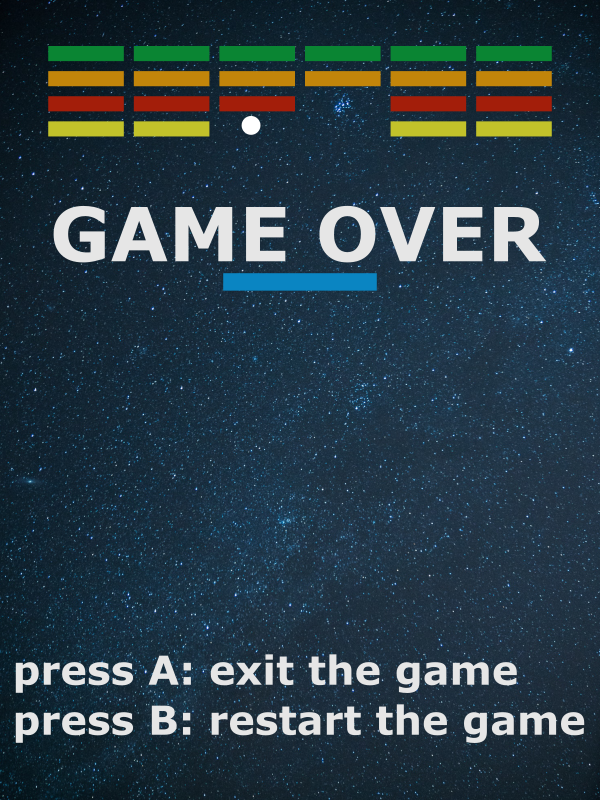
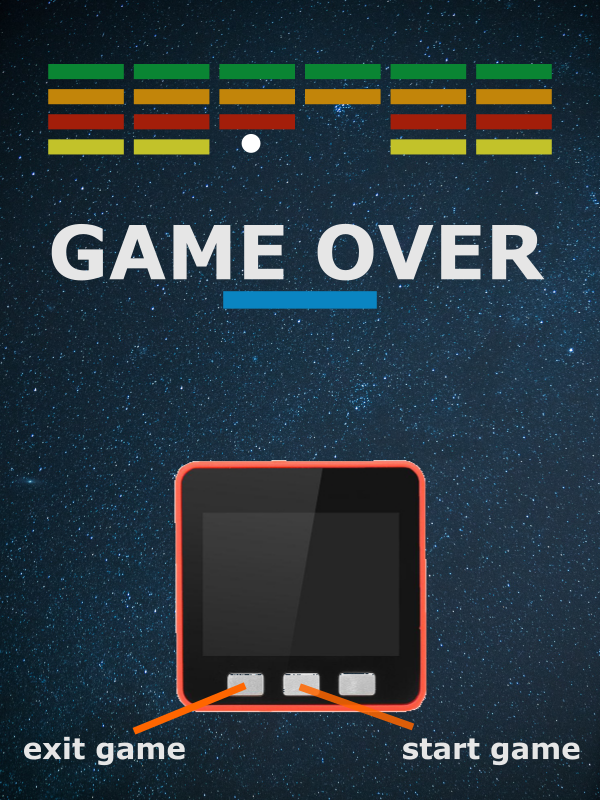
add level

Changed region(s): [[0.0, 0.5625, 0.99, 0.9688], [0.06, 0.0312, 0.93, 0.2188], [0.09, 0.25, 0.9, 0.4062]]

diff --git a/2d-game/main.py b/2d-game/main.py
@@ -31,7 +31,7 @@ class AppState(Enum):
 class Ball(Circle):
 
   def __init__(self, speed: float, batch: Batch) -> None:
-    super().__init__(x=C.Ball.START_X, y=C.Ball.START_Y, radius=C.Ball.RADIUS, color=C.Ball.COLOUR, batch=batch)
+    super().__init__(x=C.Ball.START_X, y=C.Ball.START_Y, radius=C.Ball.RADIUS, color=C.Colour.BALL, batch=batch)
     self.dir_x = C.Ball.START_DIR_X
     self.dir_y = C.Ball.START_DIR_Y
     self.speed = speed
@@ -46,7 +46,7 @@ class Ball(Circle):
   def change_dir_y(self) -> None:
     self.dir_y = self.dir_y * - 1
 
-  def distance(self, p_1: Vec2, p_2: Vec2) -> bool:
+  def check_distance(self, p_1: Vec2, p_2: Vec2) -> bool:
     ball_to_p1 = Vec2(p_1.x - self.x, p_1.y - self.y)
     ball_to_p2 = Vec2(p_2.x - self.x, p_2.y - self.y)
 
@@ -64,22 +64,22 @@ class World:
     self.bot_right = Vec2(C.World.END_X, C.World.START_Y)
 
   def collides_with(self, ball: Ball, on_game_over: Callable[[], None]) -> None:
-    if ball.distance(self.bot_left, self.top_left):
+    if ball.check_distance(self.bot_left, self.top_left):
       ball.change_dir_x()
 
-    elif ball.distance(self.bot_right, self.top_right):
+    elif ball.check_distance(self.bot_right, self.top_right):
       ball.change_dir_x()
 
-    elif ball.distance(self.top_left, self.top_right):
+    elif ball.check_distance(self.top_left, self.top_right):
       ball.change_dir_y()
 
-    elif ball.distance(self.bot_left, self.bot_right):
+    elif ball.check_distance(self.bot_left, self.bot_right):
       on_game_over()
 
 class Paddle(Rectangle):
 
   def __init__(self, speed: float, batch: Batch) -> None:
-    super().__init__(x=C.Paddle.START_X, y=C.Paddle.START_Y, width=C.Paddle.WIDTH, height=C.Paddle.HEIGTH, color=C.Paddle.COLOUR, batch=batch)
+    super().__init__(x=C.Paddle.START_X, y=C.Paddle.START_Y, width=C.Paddle.WIDTH, height=C.Paddle.HEIGTH, color=C.Colour.PADDLE, batch=batch)
     self.speed = speed
 
   def move(self, acc_x: float, world: World) -> None:
@@ -92,7 +92,7 @@ class Paddle(Rectangle):
     v_top_right = Vec2(self.x + self.width, self.y + self.height)
     v_top_left = Vec2(self.x, self.y + self.height)
 
-    if ball.distance(v_top_left, v_top_right) and self.x <= ball.x and self.x + self.width >= ball.x:
+    if ball.check_distance(v_top_left, v_top_right) and self.x <= ball.x and self.x + self.width >= ball.x:
       ball.change_dir_y()
 
 class Brick(Rectangle):
@@ -106,25 +106,25 @@ class Brick(Rectangle):
     v_top_right = Vec2(self.x + self.width, self.y + self.height)
     v_top_left = Vec2(self.x, self.y + self.height)
     
-    if ball.distance(v_bot_left, v_bot_right) and v_bot_left.x <= ball.x and v_bot_right.x >= ball.x:
+    if ball.check_distance(v_bot_left, v_bot_right) and v_bot_left.x <= ball.x and v_bot_right.x >= ball.x:
       ball.change_dir_y()
       self.delete()
 
       return True
 
-    elif ball.distance(v_top_left, v_top_right) and v_top_left.x <= ball.x and v_top_right.x >= ball.x:
+    elif ball.check_distance(v_top_left, v_top_right) and v_top_left.x <= ball.x and v_top_right.x >= ball.x:
       ball.change_dir_y()
       self.delete()
 
       return True
 
-    elif ball.distance(v_bot_left, v_top_left) and v_bot_left.y <= ball.y and v_top_left.y >= ball.y:
+    elif ball.check_distance(v_bot_left, v_top_left) and v_bot_left.y <= ball.y and v_top_left.y >= ball.y:
         ball.change_dir_x()
         self.delete()
 
         return True
           
-    elif ball.distance(v_bot_right, v_top_right) and v_bot_right.y <= ball.y and v_top_right.y >= ball.y:
+    elif ball.check_distance(v_bot_right, v_top_right) and v_bot_right.y <= ball.y and v_top_right.y >= ball.y:
         ball.change_dir_x()
         self.delete()
 
@@ -184,10 +184,10 @@ class HUD:
   def __init__(self, batch: Batch) -> None:
     self.background_image = image.load(C.Asset.BACKGROUND)
     self.background_sprite = Sprite(img=self.background_image, x=0, y=0, batch=batch)
-    self.background_hud = Rectangle(x=C.HUD.START_X, y=C.HUD.START_Y, width=C.HUD.WIDTH, height=C.HUD.HEIGTH, color=C.HUD.COLOUR, batch=batch)
-    self.game_name = Label(text=C.HUD.TITLE, font_name=C.Font.NAME, font_size=C.Font.SIZE, color=C.HUD.TEXT_COLOUR, x=C.HUD.TEXT_X, y=C.HUD.TEXT_Y, bold=True, batch=batch)
-    self.game_level = Label(text=f"{C.HUD.LEVEL_TEXT} 1", font_name=C.Font.NAME, font_size=C.Font.SIZE, color=C.HUD.TEXT_COLOUR, x=C.HUD.LEVEL_X, y=C.HUD.LEVEL_Y, batch=batch)
-    self.game_score = Label(text=f"{C.HUD.SCORE_TEXT} 0", font_name=C.Font.NAME, font_size=C.Font.SIZE, color=C.HUD.TEXT_COLOUR, x=C.HUD.SCORE_X, y=C.HUD.SCORE_Y, batch=batch)
+    self.background_hud = Rectangle(x=C.HUD.START_X, y=C.HUD.START_Y, width=C.HUD.WIDTH, height=C.HUD.HEIGTH, color=C.Colour.HUD, batch=batch)
+    self.game_name = Label(text=C.HUD.TITLE, font_name=C.Font.NAME, font_size=C.Font.SMALL, color=C.Colour.TEXT, x=C.HUD.TEXT_X, y=C.HUD.TEXT_Y, bold=True, batch=batch)
+    self.game_level = Label(text=f"{C.HUD.LEVEL_TEXT} 1", font_name=C.Font.NAME, font_size=C.Font.SMALL, color=C.Colour.TEXT, x=C.HUD.LEVEL_X, y=C.HUD.LEVEL_Y, batch=batch)
+    self.game_score = Label(text=f"{C.HUD.SCORE_TEXT} 0", font_name=C.Font.NAME, font_size=C.Font.SMALL, color=C.Colour.TEXT, x=C.HUD.SCORE_X, y=C.HUD.SCORE_Y, batch=batch)
 
   def update_level(self, level: int) -> None:
     self.game_level.text = f"{C.HUD.LEVEL_TEXT} {level}"
@@ -203,12 +203,19 @@ class Menu:
     self._intro_image = image.load(C.Asset.INTRO)
     self.intro_sprite = Sprite(img=self._intro_image, x=0, y=0, z=10)
 
-    self._game_end_label = Label(text=C.HUD.GAME_END_BG_TEXT, font_name=C.Font.NAME, font_size=C.HUD.GAME_END_BG_TEXT_SIZE, bold=True, color=C.HUD.GAME_END_BG_TEXT_COLOUR, x=C.HUD.GAME_END_BG_TEXT_X, y=C.HUD.GAME_END_BG_TEXT_Y, z=11)
+    self._game_end_level = Label(text=C.HUD.GAME_END_TEXT_LEVEL, font_name=C.Font.NAME, font_size=C.Font.LARGE, bold=True, color=C.Colour.TEXT, x=C.HUD.GAME_END_TEXT_X, y=C.HUD.GAME_END_TEXT_LEVEL_Y, z=11)
+    self._game_end_score = Label(text=C.HUD.GAME_END_TEXT_SCORE, font_name=C.Font.NAME, font_size=C.Font.LARGE, bold=True, color=C.Colour.TEXT, x=C.HUD.GAME_END_TEXT_X, y=C.HUD.GAME_END_TEXT_SCORE_Y, z=11)
 
-  def show_game_end(self, score: int, level: int) -> None:
+  def show_game_end(self, level: int, score: int) -> None:
     self.game_end_sprite.draw()
-    self._game_end_label.text = C.HUD.GAME_END_BG_TEXT.replace("XX", str(score)).replace("YY", str(level))
-    self._game_end_label.draw()
+    self._game_end_level.text = C.HUD.GAME_END_TEXT_LEVEL.replace("XXX", str(level))
+    self._game_end_score.text = C.HUD.GAME_END_TEXT_SCORE.replace("XXX", str(score))
+
+    self._game_end_level.x = C.Window.WIDTH / 2 - (self._game_end_level.content_width / 2)
+    self._game_end_score.x = C.Window.WIDTH / 2 - (self._game_end_score.content_width / 2)
+
+    self._game_end_level.draw()
+    self._game_end_score.draw()
 
   def show_intro(self) -> None:
     self.intro_sprite.draw()
@@ -216,24 +223,27 @@ class Menu:
 class Game:
 
   def init(self) -> None:
-    self.batch = Batch()
-    self.world = World()
-    self.hud = HUD(self.batch)
-    self.ball = Ball(C.Level1.BALL_SPEED, self.batch)
-    self.paddle = Paddle(C.Paddle.SPEED, self.batch)
-    self.bricks = self._init_bricks()
-
+    self.levels = [C.Level1, C.Level2, C.Level3]
     self.level = 1
     self.score = 0
 
-  def _init_bricks(self) -> list[Brick]:
-    brick_list = []
+    self.batch = Batch()
+    self.world = World()
+    self.hud = HUD(self.batch)
+    self.ball = Ball(self.levels[0].BALL_SPEED, self.batch)
+    self.paddle = Paddle(C.Paddle.SPEED, self.batch)
+    self.bricks = []
+    self._init_bricks(self.levels[0].MAP)
 
-    for row in range(C.Level1.BRICKS_PER_ROW):
-      for col in range(C.Level1.COLUMNS):
-        brick_list.append(Brick(C.Level1.START_X + row * C.Brick.WIDTH + (row - 1) * C.Level1.GAP, C.Level1.START_Y - (col * C.Brick.HEIGTH + (col - 1) * C.Level1.GAP), C.Brick.COLOUR[1], self.batch))
+  def _init_bricks(self, bricks_map: list[list]) -> None:
+    self.bricks = []
 
-    return brick_list
+    for row_key, row_val in enumerate(bricks_map):
+      for col_key, col_val in enumerate(row_val):
+        if col_val is not None:
+          x = C.Brick.START_X + col_key * C.Brick.WIDTH + (col_key - 1) * C.Brick.GAP
+          y = C.Brick.START_Y - row_key * C.Brick.HEIGTH - (row_key - 1) * C.Brick.GAP
+          self.bricks.append(Brick(x=x, y=y, colour=col_val, batch=self.batch))
   
   def process(self, acc_x: float, on_game_over: Callable[[], None]) -> None:
     self.paddle.move(acc_x, self.world)
@@ -241,10 +251,21 @@ class Game:
 
     self._check_collisions(on_game_over)
 
+
     if len(self.bricks) == 0:
-      on_game_over()
+      if len(self.levels) == self.level:
+        on_game_over()
+      else:
+        self._next_level()
 
     self.batch.draw()
+
+  def _next_level(self) -> None:
+    self.level = self.level + 1
+    self.hud.update_level(self.level)
+    self.ball.speed = self.levels[self.level - 1].BALL_SPEED
+    self._init_bricks(self.levels[self.level - 1].MAP)
+
 
   def _check_collisions(self, on_game_over: Callable[[], None]) -> None:
     self.world.collides_with(self.ball, on_game_over)

diff --git a/2d-game/configuration.py b/2d-game/configuration.py
@@ -1,15 +1,29 @@
+class Input:
+  PORT = 5700
+
 class Font:
   NAME = "Verdana"
-  SIZE = 15
-
-class Window:
-  WIDTH = 600
-  HEIGTH = 800
+  SMALL = 15
+  LARGE = 24
 
 class Asset:
   INTRO = "./asset/intro.png"
   GAME_END = "./asset/game_end.png"
   BACKGROUND = "./asset/background.png"
+
+class Colour:
+  TEXT = (255, 255, 255, 255)
+  BALL = (255, 255, 255)
+  PADDLE = (10, 133, 194)
+  HUD = (180, 30, 30)
+  R = (163, 30, 10)
+  O = (194, 133, 10)
+  G = (10, 133, 51)
+  Y = (194, 194, 42)
+
+class Window:
+  WIDTH = 600
+  HEIGTH = 800
 
 class HUD:
   TITLE = "BREAKOUT"
@@ -17,9 +31,8 @@ class HUD:
   WIDTH = 600
   START_X = 0
   START_Y = Window.HEIGTH - HEIGTH
-  COLOUR = (180, 30, 30)
 
-  TEXT_COLOUR = (255, 255, 255, 255)
+  TEXT_COLOUR = Colour.TEXT
   TEXT_X = START_X + 20
   TEXT_Y = START_Y + 15
 
@@ -31,35 +44,11 @@ class HUD:
   SCORE_X = START_X + 450
   SCORE_Y = TEXT_Y
 
-  GAME_END_BG_COLOUR = (255, 255, 255, 255)
-  GAME_END_BG_TEXT = "You scored XX points on level YY."
-  GAME_END_BG_TEXT_SIZE = 24
-  GAME_END_BG_TEXT_COLOUR = (0, 0, 0, 255)
-  GAME_END_BG_TEXT_X = 20
-  GAME_END_BG_TEXT_Y = 400
-
-class Brick:
-  WIDTH = 70
-  HEIGTH = 20
-  #red, orange, green, yellow
-  COLOUR = [(163, 30, 10), (194, 133, 10), (10, 133, 51), (194, 194, 42)]
-
-class Paddle:
-  WIDTH = 100
-  HEIGTH = 15
-  START_X = (Window.WIDTH / 2) - (WIDTH / 2)
-  START_Y = 10
-  #blue
-  COLOUR = (10, 133, 194)
-  SPEED = 15
-
-class Ball:
-  RADIUS = 7
-  START_X = (Window.WIDTH / 2) + (RADIUS / 2)
-  START_Y = Paddle.START_Y + Paddle.HEIGTH + RADIUS
-  COLOUR = (255, 255, 255)
-  START_DIR_X = 1
-  START_DIR_Y = 1
+  GAME_END_TEXT_LEVEL = "You reached level XXX."
+  GAME_END_TEXT_SCORE = "You scored XXX points."
+  GAME_END_TEXT_X = 70
+  GAME_END_TEXT_LEVEL_Y = 435
+  GAME_END_TEXT_SCORE_Y = 385
 
 class World:
   START_X = 0
@@ -67,15 +56,79 @@ class World:
   START_Y = 0
   END_Y = Window.HEIGTH - HUD.HEIGTH
 
-class Input:
-  PORT = 5700
+class Brick:
+  WIDTH = 70
+  HEIGTH = 20
+  START_X = World.START_X
+  START_Y = World.END_Y - 30
+  BRICKS_PER_ROW = 8
+  GAP = (Window.WIDTH - (BRICKS_PER_ROW * WIDTH)) / (BRICKS_PER_ROW - 1)
+
+class Paddle:
+  WIDTH = 100
+  HEIGTH = 15
+  START_X = (Window.WIDTH / 2) - (WIDTH / 2)
+  START_Y = 10
+  SPEED = 15
+
+class Ball:
+  RADIUS = 7
+  START_X = (Window.WIDTH / 2) + (RADIUS / 2)
+  START_Y = Paddle.START_Y + Paddle.HEIGTH + RADIUS
+  START_DIR_X = 1
+  START_DIR_Y = 1
 
 class Level1:
   BALL_SPEED = 5
-  BRICKS_PER_ROW = 8
-  COLUMNS = 8
-  START_X = World.START_X
-  START_Y = World.END_Y - 40
-  GAP = (Window.WIDTH - (BRICKS_PER_ROW * Brick.WIDTH)) / (BRICKS_PER_ROW - 1)
+  MAP = [
+    [None, None, None, None, None, None, None, None],
+    [None, None, None, None, None, None, None, None],
+    [None, Colour.R, Colour.R, Colour.R, Colour.R, Colour.R, Colour.R, None],
+    [None, Colour.G, Colour.G, Colour.G, Colour.G, Colour.G, Colour.G, None],
+    [None, None, Colour.Y, Colour.Y, Colour.Y, Colour.Y, None, None],
+    [None, None, Colour.G, Colour.G, Colour.G, Colour.G, None, None],
+    [None, None, None, None, None, None, None, None],
+    [Colour.R, Colour.R, Colour.R, None, None, Colour.R, Colour.R, Colour.R],
+    [Colour.R, Colour.R, Colour.R, None, None, Colour.R, Colour.R, Colour.R],
+    [None, None, None, None, None, None, None, None],
+    [None, None, None, None, None, None, None, None],
+    [None, None, None, None, None, None, None, None]
+  ]
+
+class Level2:
+  BALL_SPEED = 7
+  MAP = [
+    [Colour.Y, None, None, None, None, None, None, Colour.Y],
+    [None, None, None, None, None, None, None, None],
+    [None, Colour.G, Colour.G, Colour.G, Colour.G, Colour.G, Colour.G, None],
+    [None, Colour.G, Colour.G, Colour.G, Colour.G, Colour.G, Colour.G, None],
+    [Colour.Y, Colour.Y, Colour.Y, Colour.Y, Colour.Y, Colour.Y, Colour.Y, Colour.Y],
+    [Colour.R, Colour.R, None, None, None, None, Colour.R, Colour.R],
+    [Colour.R, Colour.R, None, None, None, None, Colour.R, Colour.R],
+    [Colour.R, Colour.R, Colour.G, None, None, Colour.G, Colour.R, Colour.R],
+    [Colour.R, Colour.R, Colour.G, None, None, Colour.G, Colour.R, Colour.R],
+    [Colour.R, Colour.R, None, None, None, None, Colour.R, Colour.R],
+    [Colour.R, Colour.R, None, Colour.Y, Colour.Y, None, Colour.R, Colour.R],
+    [None, None, None, None, None, None, None, None]
+  ]
+
+class Level3:
+  BALL_SPEED = 10
+  MAP = [
+    [Colour.Y, Colour.Y, Colour.Y, Colour.Y, Colour.Y, Colour.Y, Colour.Y, Colour.Y],
+    [Colour.Y, Colour.Y, Colour.Y, Colour.Y, Colour.Y, Colour.Y, Colour.Y, Colour.Y],
+    [None, None, None, None, None, None, None, None],
+    [Colour.R, Colour.R, Colour.R, Colour.R, Colour.R, Colour.R, Colour.R, Colour.R],
+    [Colour.R, Colour.R, Colour.R, Colour.R, Colour.R, Colour.R, Colour.R, Colour.R],
+    [None, None, None, None, None, None, None, None],
+    [Colour.G, Colour.G, Colour.G, Colour.G, Colour.G, Colour.G, Colour.G, Colour.G],
+    [Colour.G, Colour.G, Colour.G, Colour.G, Colour.G, Colour.G, Colour.G, Colour.G],
+    [None, None, None, None, None, None, None, None],
+    [Colour.O, Colour.O, Colour.O, Colour.O, Colour.O, Colour.O, Colour.O, Colour.O],
+    [Colour.O, Colour.O, Colour.O, Colour.O, Colour.O, Colour.O, Colour.O, Colour.O],
+    [None, None, None, None, None, None, None, None],
+    [None, None, None, None, None, None, None, None],
+    [None, None, None, None, None, None, None, None]
+  ]
 
   
